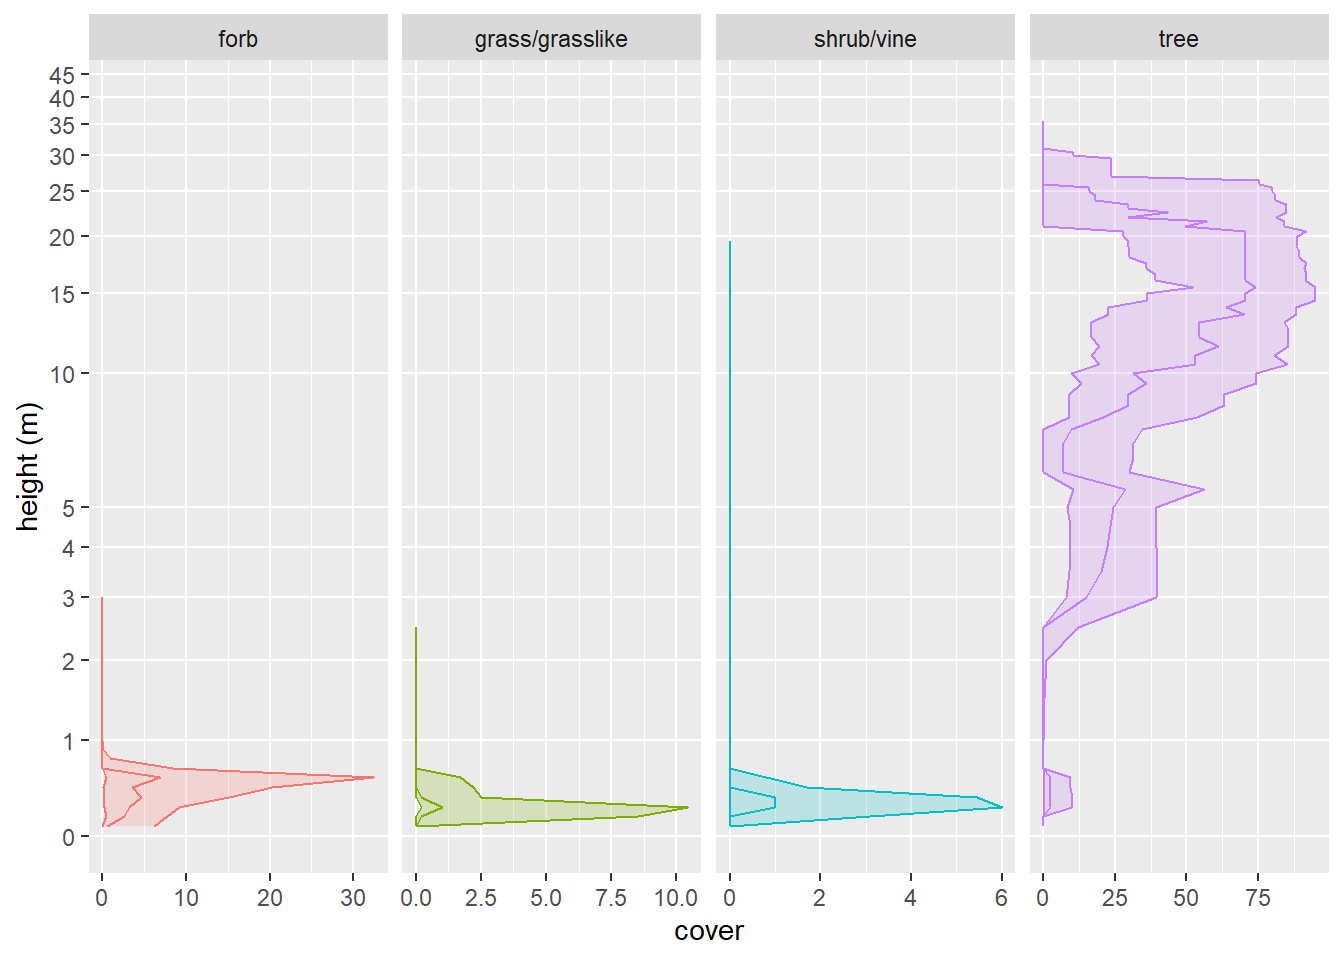
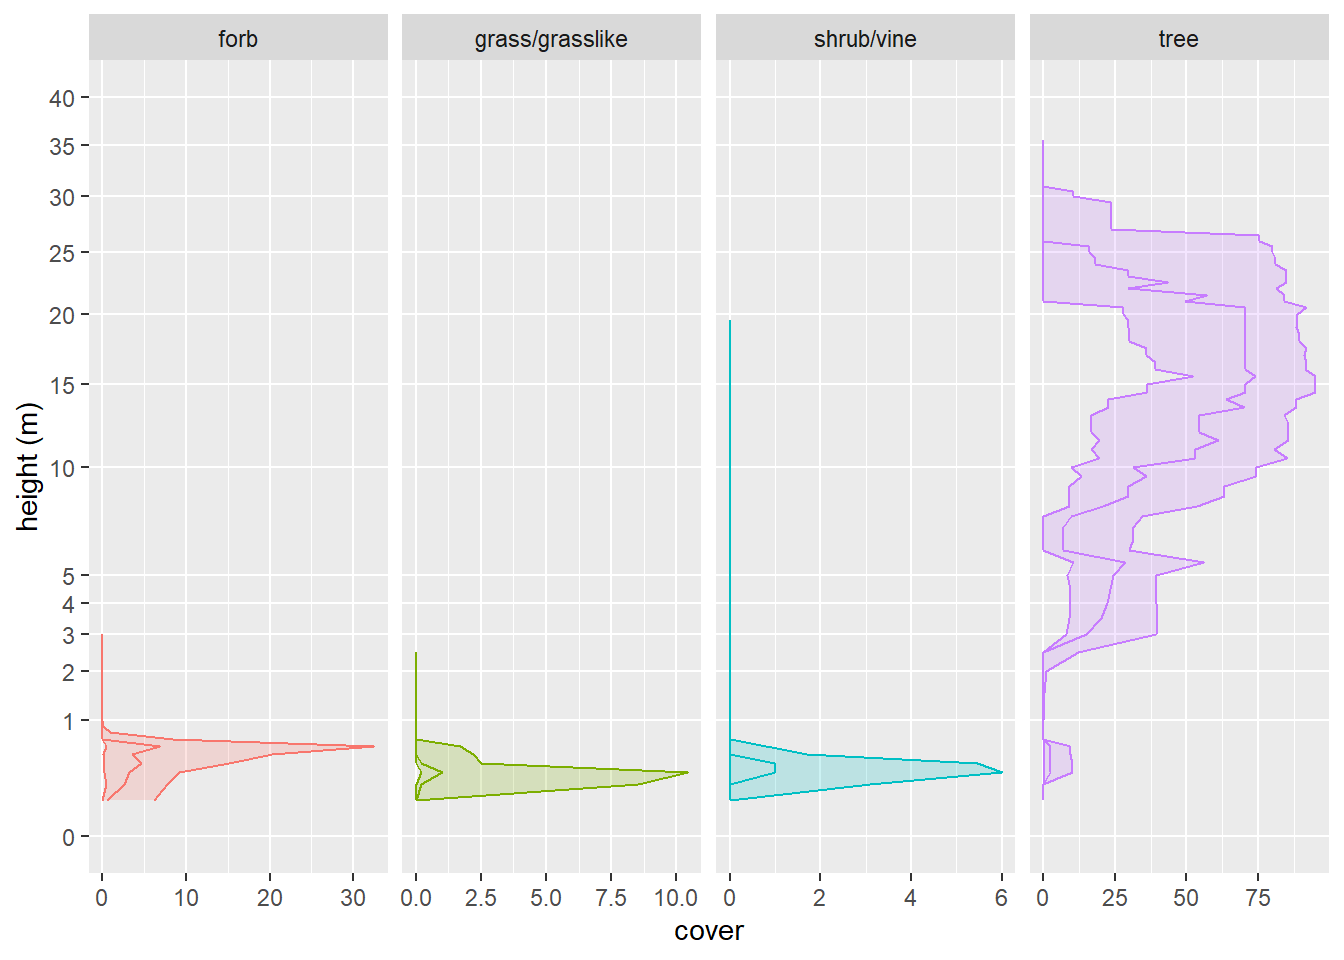
change transform

diff --git a/docs/structure.html b/docs/structure.html
@@ -498,7 +498,7 @@ div.csl-indent {
 Figure 4.1: Structure of plot collection.
 </p>
 </div>
-<div class="sourceCode" id="cb3"><pre class="sourceCode r"><code class="sourceCode r"><span id="cb3-1"><a href="structure.html#cb3-1" aria-hidden="true" tabindex="-1"></a><span class="co">#Custom transformation as a function passing a parameter to existing function. Default sigma of trans = &#39;pseudo_log&#39; is 1, so in this case, calling the custom function with sigma = 1 is the same as calling trans = &#39;pseudo_log&#39;. Call custom transformation as trans = &#39;ps2&#39;. Ggplot appends &#39;_trans&#39; to the name of the function called, so our function needs to have this appended to its name.  </span></span>
+<div class="sourceCode" id="cb3"><pre class="sourceCode r"><code class="sourceCode r"><span id="cb3-1"><a href="structure.html#cb3-1" aria-hidden="true" tabindex="-1"></a><span class="co">#Custom transformation as a function passing a parameter to existing function. Default sigma of trans = &#39;pseudo_log&#39; is 1, so in this case, calling the custom function with sigma = 1 is the same as calling trans = &#39;pseudo_log&#39;. Call custom transformation as trans = &#39;ps2&#39;. Ggplot appends &#39;_trans&#39; to the name of the function called, so our function needs to have this appended to its name.  But in this data set, trans=&#39;sqrt&#39; is preferable as it doesn&#39;t overly compress the highest canopy.</span></span>
 <span id="cb3-2"><a href="structure.html#cb3-2" aria-hidden="true" tabindex="-1"></a>ps2_trans <span class="ot">&lt;-</span> <span class="cf">function</span>() {</span>
 <span id="cb3-3"><a href="structure.html#cb3-3" aria-hidden="true" tabindex="-1"></a>  scales<span class="sc">::</span><span class="fu">pseudo_log_trans</span>(<span class="at">sigma =</span> <span class="dv">1</span>)</span>
 <span id="cb3-4"><a href="structure.html#cb3-4" aria-hidden="true" tabindex="-1"></a>}</span>
@@ -510,7 +510,7 @@ Figure 4.1: Structure of plot collection.
 <span id="cb3-10"><a href="structure.html#cb3-10" aria-hidden="true" tabindex="-1"></a>  <span class="fu">geom_ribbon</span>(<span class="fu">aes</span>(<span class="at">ymin =</span> X25, <span class="at">ymax =</span> X75, <span class="at">x =</span> top, <span class="at">fill=</span>type), <span class="at">alpha =</span> <span class="fl">0.2</span>) <span class="sc">+</span></span>
 <span id="cb3-11"><a href="structure.html#cb3-11" aria-hidden="true" tabindex="-1"></a>  <span class="fu">coord_flip</span>() <span class="sc">+</span></span>
 <span id="cb3-12"><a href="structure.html#cb3-12" aria-hidden="true" tabindex="-1"></a>  <span class="fu">theme</span>(<span class="at">legend.position =</span> <span class="st">&quot;none&quot;</span>)<span class="sc">+</span></span>
-<span id="cb3-13"><a href="structure.html#cb3-13" aria-hidden="true" tabindex="-1"></a>  <span class="fu">scale_x_continuous</span>(<span class="at">name=</span><span class="st">&#39;height (m)&#39;</span>, <span class="at">breaks=</span><span class="fu">c</span>(<span class="fu">c</span>(<span class="dv">0</span><span class="sc">:</span><span class="dv">4</span>),<span class="fu">c</span>(<span class="dv">1</span><span class="sc">:</span><span class="dv">100</span>)<span class="sc">*</span><span class="dv">5</span>),  <span class="at">minor_breaks =</span> <span class="cn">NULL</span>, <span class="at">limits =</span> <span class="fu">c</span>(<span class="dv">0</span>,<span class="dv">40</span>), <span class="at">trans =</span> <span class="st">&#39;ps2&#39;</span>)<span class="sc">+</span></span>
+<span id="cb3-13"><a href="structure.html#cb3-13" aria-hidden="true" tabindex="-1"></a>  <span class="fu">scale_x_continuous</span>(<span class="at">name=</span><span class="st">&#39;height (m)&#39;</span>, <span class="at">breaks=</span><span class="fu">c</span>(<span class="fu">c</span>(<span class="dv">0</span><span class="sc">:</span><span class="dv">4</span>),<span class="fu">c</span>(<span class="dv">1</span><span class="sc">:</span><span class="dv">100</span>)<span class="sc">*</span><span class="dv">5</span>),  <span class="at">minor_breaks =</span> <span class="cn">NULL</span>, <span class="at">limits =</span> <span class="fu">c</span>(<span class="dv">0</span>,<span class="dv">40</span>), <span class="at">trans =</span> <span class="st">&#39;sqrt&#39;</span>)<span class="sc">+</span></span>
 <span id="cb3-14"><a href="structure.html#cb3-14" aria-hidden="true" tabindex="-1"></a>  <span class="fu">scale_y_continuous</span>(<span class="at">name=</span><span class="st">&#39;cover&#39;</span>)<span class="sc">+</span></span>
 <span id="cb3-15"><a href="structure.html#cb3-15" aria-hidden="true" tabindex="-1"></a>  <span class="fu">facet_wrap</span>(<span class="sc">~</span> type, <span class="at">scales =</span> <span class="st">&quot;free_x&quot;</span>, <span class="at">nrow=</span><span class="dv">1</span>)</span></code></pre></div>
 <div class="figure"><span style="display:block;" id="fig:unnamed-chunk-3"></span>
